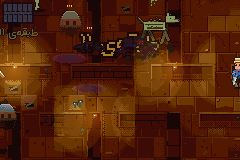
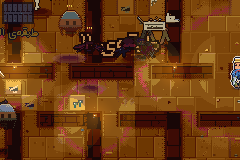
art(S9.2): dungeon readability

diff --git a/game.html b/game.html
@@ -2768,7 +2768,7 @@ return {MOTES, MOTE_INFO, MOTE_ALPHA, drawMotes};
 const {MOTES, MOTE_INFO, MOTE_ALPHA, drawMotes} = __m_art_motes;
 const __m_art_light = (() => {
 let DARK_R = 13, DARK_G = 11, DARK_B = 26; // S4.3: رنگِ تاریکی per تم (گریدینگ)
-const DARK_A = 118;
+const DARK_A = 100; // S9.2: ۱۱۸→۱۰۰ — مهِ تاریکی نیمی از فاصلهی کف↔دیوار را میخورد
 const _lightSt = new Map();
 function lightStamp(rad, strength) {
 const key = rad * 1000 + strength;
@@ -8649,7 +8649,29 @@ dit(x0 + 2 * dir, yy, 0.25, _pick(cand, (edge + 3 * Li) / 4 + (L(x0 + 2 * dir, y
 }
 }
 }
-const FLOOR_PASSES = ['base', 'wallMass', 'floorPattern', 'AO', 'decals', 'seam', 'staticProps'];
+const READ_GAP = 50, READ_FLOOR = 78;
+function passReadable(cache, D) {
+const d = cache.d, w = cache.w, fl = [], wl = [];
+for (let ty = 0; ty < ROWS; ty++) for (let tx = 0; tx < COLS; tx++) {
+const c = D.cell(tx, ty); const arr = c.kind === 'dfloor' ? fl : (c.kind === 'wall' || c.kind === 'pillar') ? wl : null; if (!arr) continue;
+for (let y = 2; y < TILE; y += 3) for (let x = 2; x < TILE; x += 3) { const i = ((ty * TILE + y) * w + tx * TILE + x) * 4; arr.push(lum3([d[i], d[i + 1], d[i + 2]])); }
+}
+if (!fl.length || !wl.length) return;
+const md = (a) => (a.sort((p, q) => p - q), a[a.length >> 1]);
+const Lf = md(fl), Lw = md(wl);
+const kf = Lf < READ_FLOOR ? READ_FLOOR / Math.max(1, Lf) : 1, Lf2 = Lf * kf;
+const kw = Lw > Lf2 - READ_GAP ? Math.max(12, Lf2 - READ_GAP) / Math.max(1, Lw) : 1;
+if (kw === 1 && kf === 1) return;
+for (let ty = 0; ty < ROWS; ty++) for (let tx = 0; tx < COLS; tx++) {
+const c = D.cell(tx, ty); const k = (c.kind === 'wall' || c.kind === 'pillar') ? kw : (c.kind === 'dfloor' || c.kind === 'decor' || c.kind === 'stairs') ? kf : 1;
+if (k === 1) continue;
+for (let y = 0; y < TILE; y++) for (let x = 0; x < TILE; x++) {
+const i = ((ty * TILE + y) * w + tx * TILE + x) * 4;
+d[i] = Math.min(255, d[i] * k); d[i + 1] = Math.min(255, d[i + 1] * k); d[i + 2] = Math.min(255, d[i + 2] * k);
+}
+}
+}
+const FLOOR_PASSES = ['base', 'wallMass', 'floorPattern', 'AO', 'decals', 'readable', 'seam', 'staticProps'];
 function bakeFloor(run) {
 const D = run.dungeon;
 const cache = new Raster(WORLD_W, WORLD_H);
@@ -8658,14 +8680,27 @@ passWallMass(cache, D);        // ۲
 passFloorPattern(cache, D);    // ۳
 passAO(cache, D);              // ۴
 passDecals(cache, D);          // ۵
+passReadable(cache, D);        // ۸ — جدایی کف↔توده (S9.2)
 passSeam(cache, D);            // ۷ — درزگیرِ مرزِ توده↔کف (S8.1)
 passStaticProps(cache, D);     // ۶
 return cache;
 }
-return {FLOOR_PASSES, bakeFloor};
+return {READ_GAP, READ_FLOOR, FLOOR_PASSES, bakeFloor};
 })();
-const {FLOOR_PASSES, bakeFloor} = __m_dungeon_bake;
+const {READ_GAP, READ_FLOOR, FLOOR_PASSES, bakeFloor} = __m_dungeon_bake;
 const __m_run_render = (() => {
+const _rims = new WeakMap(), RIM_C = [242, 239, 228, 210];
+function heroRim(spr) { // حلقهی ۴-همسایه دورِ پیکسلهای مات (α≥200؛ سایهی پختهشده نادیده) — یکبار بهازای هر اسپرایت؛ فهرستِ اندیس (ارزان)
+let m = _rims.get(spr);
+if (m) return m;
+const w = spr.w, h = spr.h, d = spr.d; m = [];
+const op = (x, y) => x >= 0 && y >= 0 && x < w && y < h && d[(y * w + x) * 4 + 3] >= 200;
+for (let y = 0; y < h; y++) for (let x = 0; x < w; x++) if (!op(x, y) && (op(x - 1, y) || op(x + 1, y) || op(x, y - 1) || op(x, y + 1))) m.push(x, y);
+_rims.set(spr, m);
+return m;
+}
+function drawRim(r, m, ox, oy) { for (let i = 0; i < m.length; i += 2) r.px(ox + m[i], oy + m[i + 1], RIM_C); }
+const LIT = [], LIT_R2 = 92 * 92; // S9.2: شعاعِ «موجودِ روشن» ≈ هالهی دیدِ قهرمان (۷۸) + حاشیه
 const _sprCache = new Map(); // کش اسپرایت قهرمان (LRU)
 const ENTS = []; // لیست موجودات قابل رندر — بازمصرف بین فریمها
 const _lights = []; // لیست تخت نورها — بدون تخصیص آبجکت
@@ -8767,9 +8802,17 @@ if (!hp) hp = ENTS[ne] = { y: 0, e: null, hero: false };
 hp.y = h.y; hp.hero = true; hp.e = null; ne++;
 ENTS.length = ne;
 ENTS.sort(BY_Y);
+let nLit = 0;
 for (const en of ENTS) {
+if (!en.hero) { const e = en.e, dx = e.x - h.x, dy = e.y - h.y; if (dx * dx + dy * dy < LIT_R2) { LIT[nLit++] = en; continue; } }
+else { LIT[nLit++] = en; continue; }
+drawEnt(en);
+}
+LIT.length = nLit;
+function drawEnt(en) {
 if (en.hero) {
 const hx = Math.round(h.x) - HOX - cx, hy = Math.round(h.y) - HOY - cy;
+drawRim(r, heroRim(run._heroSprite()), hx, hy); // S9.2: حلقهی روشنِ ۱px بیرونِ outline ⇒ قهرمان روی هر کف جدا
 run._heroSprite().over(r, hx, hy); // سایه داخل اسپرایت پخته شده (ن۳۵: دوبل حذف شد)
 if (h.hurtT > 0 && Math.floor(h.hurtT * 30) % 2 === 0) run._heroSprite(true).over(r, hx, hy);
 else if (h.iframe > 0 && Math.floor(h.iframe * 24) % 2 === 0) r.rect(hx + 14, hy + 14, 36, 36, IFRAME_BOX); // ن۳۵: بوم ۶۴px
@@ -8834,6 +8877,7 @@ else if (EYE_GLOW[e2.kind]) glowAdd(e2.x - cx, e2.y - (MHEAD[e2.kind] ?? 76) - c
 setThemeGrade(GRADE.off ? -1 : D.theme);                     // S4.3: گریدینگِ رنگیِ تم (LUT یکبار در هر تغییرِ تم)
 applyDarkness(r, run._dark, L, C, cx, cy); // S4.2: دوربین برای دیترِ جهانی
 glowDraw(r);                               // S4.6: هالهها روی تاریکی (افزودنی + clamp)
+for (const en of LIT) drawEnt(en);         // S9.2: موجوداتِ روشن روی تاریکی
 drawMotes(r, 'dungeon', D.theme, cx, cy, run.time, r.w, r.h); // S4.8: ذراتِ آرامِ تم (≤۶، ۱px)
 run.fx.render(r, cx, cy);
 for (const e of D.enemies) {

diff --git a/js/dungeon_bake.js b/js/dungeon_bake.js
@@ -173,7 +173,35 @@ function passSeam(cache, D) {
   }
 }
 
-export const FLOOR_PASSES = ['base', 'wallMass', 'floorPattern', 'AO', 'decals', 'seam', 'staticProps'];
+// ---------- ۸ — جدایی کف↔توده (S9.2) ----------
+// پیش از این پاس میانهی روشنیِ کف و تودهی دیوار در ۶ تم فقط ۰–۷ واحد L* فاصله داشت ⇒ «همهچیز یکرنگ و تار».
+// توده تیرهتر میشود (سقفِ دیوار در نمای بالا = سایه) تا فاصلهی میانهها به READ_GAP برسد؛ اگر کف خودش
+// آنقدر تیره است که جا نیست، کف روشنتر میشود. ضربِ کانالی ⇒ بافت/نسبتها حفظ؛ قفلِ پالتِ صحنه بعداً اسنپ میکند.
+export const READ_GAP = 50, READ_FLOOR = 78;
+function passReadable(cache, D) {
+  const d = cache.d, w = cache.w, fl = [], wl = [];
+  for (let ty = 0; ty < ROWS; ty++) for (let tx = 0; tx < COLS; tx++) {
+    const c = D.cell(tx, ty); const arr = c.kind === 'dfloor' ? fl : (c.kind === 'wall' || c.kind === 'pillar') ? wl : null; if (!arr) continue;
+    for (let y = 2; y < TILE; y += 3) for (let x = 2; x < TILE; x += 3) { const i = ((ty * TILE + y) * w + tx * TILE + x) * 4; arr.push(lum3([d[i], d[i + 1], d[i + 2]])); }
+  }
+  if (!fl.length || !wl.length) return;
+  const md = (a) => (a.sort((p, q) => p - q), a[a.length >> 1]);
+  const Lf = md(fl), Lw = md(wl);
+  // کف حداقل READ_FLOOR (تاریکی بعداً ~نصفِ فاصله را میخورد) و توده دستکم READ_GAP تیرهتر، ولی نه زیرِ ۱۲ (سیاهیِ بیجزئیات)
+  const kf = Lf < READ_FLOOR ? READ_FLOOR / Math.max(1, Lf) : 1, Lf2 = Lf * kf;
+  const kw = Lw > Lf2 - READ_GAP ? Math.max(12, Lf2 - READ_GAP) / Math.max(1, Lw) : 1;
+  if (kw === 1 && kf === 1) return;
+  for (let ty = 0; ty < ROWS; ty++) for (let tx = 0; tx < COLS; tx++) {
+    const c = D.cell(tx, ty); const k = (c.kind === 'wall' || c.kind === 'pillar') ? kw : (c.kind === 'dfloor' || c.kind === 'decor' || c.kind === 'stairs') ? kf : 1;
+    if (k === 1) continue;
+    for (let y = 0; y < TILE; y++) for (let x = 0; x < TILE; x++) {
+      const i = ((ty * TILE + y) * w + tx * TILE + x) * 4;
+      d[i] = Math.min(255, d[i] * k); d[i + 1] = Math.min(255, d[i + 1] * k); d[i + 2] = Math.min(255, d[i + 2] * k);
+    }
+  }
+}
+
+export const FLOOR_PASSES = ['base', 'wallMass', 'floorPattern', 'AO', 'decals', 'readable', 'seam', 'staticProps'];
 
 export function bakeFloor(run) {
   const D = run.dungeon;
@@ -183,6 +211,7 @@ export function bakeFloor(run) {
   passFloorPattern(cache, D);    // ۳
   passAO(cache, D);              // ۴
   passDecals(cache, D);          // ۵
+  passReadable(cache, D);        // ۸ — جدایی کف↔توده (S9.2)
   passSeam(cache, D);            // ۷ — درزگیرِ مرزِ توده↔کف (S8.1)
   passStaticProps(cache, D);     // ۶
   return cache;

diff --git a/MEMORY.md b/MEMORY.md
@@ -98,8 +98,9 @@ farmdungeon/   (کل ورکاسپیس ۲٫۵MB — بیرون فقط uploads/
 - **ن۵۲: S0.3 ✅ art_audit پایدار** — `tools/art_audit.mjs` (M1–M10 عددی + شیت + JSON؛ قطعی=random استاب؛ ۰٫۳ث) + `shots/audit_baseline.json` + `shots/art_audit.png` + ۴ صحنهی مرجع `ref_*.png`؛ **اسکرینشاتهای قدیمی (۶ فایل) بهخواست کاربر حذف شدند**؛ CI: `.github/workflows/ci.yml` (هر push: run_all + art_audit + آپلود آرتیفکت)؛ پایهی سنجهمحور **۲/۱۱ = ۱٫۸/۱۰** — M1 ΔL=۹٫۶ (bat بدترین) · M2=۲۲ · M3 قهرمان ۸۳ رنگ/موب ۵–۹ · M4=۱ باند · M5=۹۷٫۴٪ · M6=۰٫۵۹/۰٫۵۷ · M7=۴۶٫۲٪/۰٫۷٪ · M8=۰/۰ · M9 idle-min=۰٪ (golem یخزده)، حمله ۱۹٫۸/۱۹٫۱٪ · M10=۷–۱۳px×۴؛ همخوانی با ن۴۸: قهرمان ۸۳↔۸۲، موب ۵–۹↔۵–۹، محصول ۷–۱۳↔۷–۱۳، حمله ۱۹٫۸/۱۹٫۱↔۱۵/۱۹، bat بدترین↔bat · نشست بعدی: S0.4
 - **ن۵۱: S0.1 ✅ + S0.2 ✅** — مخزن با توکن کلون شد، `farmdungeon-roadmap.zip` آنزیپ و ساختار پروژه در ریشهی ریپو (`farmdungeon/`) قرار گرفت؛ zip حذف؛ `secret_guard: clean`؛ پوش اول `3f61d4c` (local==remote)؛ تگ `art-baseline` لوکال+ریموت · **S0.2**: `tools/setup_tests.sh` + `tools/boot_check.mjs` (۱۰ سناریو jsdom) + `tools/run_all.sh` → `ALL GREEN` در ۲۲ث (boot ۱۰/۱۰ در ۱۹٬۲ث · render5 ۱۵/۱۵ · render6 ۲۷/۲۷) و **بیلد بایتبرابر با game.html موجود (Parity)** · نشست بعدی: S1.5a (موبهای کلاسیک)
 - **ن۵۰: رودمپ آرت v2 تدوین شد** (۵۹ نشست/۹ فاز: P0 زیرساخت · P1 رنگ · P2 تایل مزرعه · P3 تایل دانجن · P4 نور · P5 جزئیات مزرعه · P6 موجودات · P7 UI · P8 پولیش) — کد بازی دستنخورده، فقط `.gitignore` + `tools/push.sh` + `tools/secret_guard.sh` + ROADMAP/roadmap اضافه شد · نشست بعدی: S0.3 · هدف امتیاز آرت ۵٫۵ → ≥ ۸٫۵ (Scoreboard در ROADMAP.md)
-- قابل بازی: game.html روی :8080 · نوبت جاری: **ن۱۱۳ — R4 بازخورد «تار/نازیبا» ⇒ فازِ تازهی P9 (`roadmap/P9.md`) · S9.1 ✅ فونتِ فارسیِ متصل ⇒ S9.2**
+- قابل بازی: game.html روی :8080 · نوبت جاری: **ن۱۱۳ — R4 بازخورد «تار/نازیبا» ⇒ فازِ تازهی P9 (`roadmap/P9.md`) · S9.1 ✅ فونت · S9.2 ✅ خوانایی دانجن ⇒ S9.3**
 - **ن۱۰۳: S6.5 ✅ جزئیات ۷ موب جدید (۱ ماژول تازه + ۲ ویرایش — داخل سهمیه)** — **بخشبندی:** `monster_bodies2.js` از سقف گذشته بود (۲۸۶) ⇒ ماژول تازه **`js/art/monster_bodies4.js⟨157⟩`** گرفت imp/bandit/hare را و فایل اصلی با ۴ بدنه (mummy/archer/ram/yeti) به **۲۰۳** خط رسید؛ ادغام با `...MBODY4`. **جزئیات:** mummy باندِ مورب + دنباله + **بازوانِ درازِ امضایی** · archer کمانِ کمانی + **تیردان با ۳ تیر** · ram **دورِ دومِ شاخِ حلزونی** + تودههای پشمِ بالا/پایین · yeti **خزِ یخیِ دندانهدار** + ابرو/دندان · imp بالِ کوتاه + **شعلهی دست** · bandit **نقاب** + نوکِ کلاه + دنبالهی شنل · hare رانِ عقبی + پنجههای بزرگ (کوتاهوپهن). **پذیرش ✓:** M1 ۲۷٫۱۸ · M3 موبها ۱۱..۲۰ · M4 باند ۵ · M9 idle ۴۷٫۶٪ / کماندار ۸۳٫۸٪ · audit ۱۰/۱۱ (۹٫۱) · **qa_s65 (۱۳) ۱۳/۱۳** (از جمله ۷ کلاسیک ۲۸/۲۸ بیتبهبایت یکسان با HEAD) · boot ۱۱/۱۱ · render5/6 · elite47 ۴/۴. **سیلوئت (Jaccard):** معیارِ نقشه (≤۰٫۶ برای هر جفتِ هماندازه) **از قبل نقض بود** (۱۹ جفت از ۳۷ بالای ۰٫۶؛ بدترین ۰٫۸۰۸) ⇒ سنجه را «عدم بدترشدن» بستیم و بهبود گرفتیم: **بالای ۰٫۶: ۱۹→۱۶** · بدترین ۰٫۸۰۸→۰٫۷۸۸ · میانگین ۰٫۵۵۱→۰٫۵۳۲ · هیچ جفتی بیش از ۰٫۰۵ بدتر نشد. رسیدن به ≤۰٫۶ نیاز به نشستِ بازطراحیِ اندازهها دارد (پیشنهاد: S6.8). شاهد: `shots/s65_idle.png` و `shots/s65_attack.png`. نشست بعدی: **S6.6**.
+- **ن۱۱۴: S9.2 ✅ خوانایی دانجن (۰ ماژول + ۳ ویرایش)** — سنجهی تازه `/tmp/s92/read.mjs` (۶ تم؛ قهرمان روی کفِ نزدیکِ مرکز با ۳–۱۲ دیوار در ۵×۵، ۶ موب در فاصلهی ۳–۶ تایل، Math.random بذری، ماسکِ موجود = تفاضلِ رندرِ با/بی موجود): قبل کف↔دیوار L* **۰–۸**، قهرمان **۲۵٪**، موبها **۳۳٪**. **علت:** پخت فاصله داشت ولی مهِ تاریکی (α≤۱۱۸) نیمی از آن را میخورد و موجودات زیرِ تاریکی کشیده میشدند. **کار:** `dungeon_bake.js` پاسِ **`passReadable`** پیش از seam (`READ_GAP=50`، `READ_FLOOR=78` بر حسبِ lum3؛ wall+pillar تیره، کف/دکور/پله روشن) · `light.js` `DARK_A` ۱۱۸→**۱۰۰** · `run_render.js`: موجوداتِ داخلِ **۹۲px** قهرمان پس از `glowDraw` کشیده میشوند (`LIT`، `drawEnt`؛ دورترها مثل قبل) + **حلقهی روشنِ قهرمان** (`heroRim`: فهرستِ اندیسِ پیکسلهای ۴-همسایهی α≥200 در WeakMap، `RIM_C` [242,239,228,210]؛ نسخهی رسترِ ۶۴×۶۴ کند بود). **بعد:** کف↔دیوار **۱۸٫۶**، قهرمان **۵۷٪**، موبها **۴۶٪** ⇒ PASS · audit ۹٫۱ (M5 دانجن ۹۹٫۶، M6 ۰٫۹۱) · پویش: M8 ۲→۴، M6 خارج ۲→۳ (تشخیصی) · run_all/qa ۵۲/s82 ۸/۸ سبز · A/B دانجن ۱٫۱۳–۱٫۱۸× (مرزی) · بیلد ۵۳۶٫۲KiB. ریسک: سرستونِ ستونها حالا زیرِ موجوداتِ روشن میافتد (ترتیبِ y برای موجوداتِ داخلِ هاله). درس: تاریکی فاصلهها را نصف میکند ⇒ کنتراست را پس از نور بسنج.
 - **ن۱۱۳: R4 ⇒ P9 + S9.1 ✅ فونتِ فارسیِ متصل (۱ ماژولِ تازه + ۲ ویرایش)** — بازخوردِ کاربر: «همهچیز تار است» + امتیازِ سختگیرانهی ۴٫۲/۱۰ ⇒ فازِ **P9 زیبایی و وضوح** (۷ نشست + R5؛ هر نشست یک سنجهی چشمیِ تازه که قبل FAIL/بعد PASS). **کشف:** فونتِ S7.3 حروف را جدا و تکشکل میکشید (بدونِ آغازی/میانی/پایانی، ب بینقطه) ⇒ «طبقه» ≈ «uopub»؛ سنجههای قبلی (گلیف موجود/چشمه) این را نمیدیدند. **کار:** `tools/author_font_vaz.py` (تازه): Vazirmatn Medium **11px** (OFL، فقط در /tmp/vaz.ttf؛ بازی فایلِ فونت ندارد) را با **HarfBuzz/raqm از راهِ ZWJ** برای هر فرمِ بافتی رستر میکند ⇒ ماژولِ تازهی **`js/art/font_fa.js⟨69⟩`** (۳۰۱ گلیف، ۴۵ حرف×۴ فرم + لامالف، بیتمپ base64 ۴٫۳KB، H=15، base=10) + شکلدهیِ عربی (RJ/ZWNJ/لامالف/ALIAS/آینهی پرانتز) + bidi (ردیفهای لاتین/عدد با فاصله و جداکننده) + نمادهای دستیِ → ✦. بخشِ کدِ font_fa پس از نشانهی «رمزگشایی» با بازتولید حفظ میشود. **`js/art/font2.js` ۲۸۹→۱۰۵** (همان API؛ ماسک/حلقهی کششده با سقف ۲۵۶؛ GLYPHS حذف ⇒ `tools/author_font41.py` منسوخ است و نباید اجرا شود) · `build_single` (BASE: art/font_fa پیش از font2). **سنجه:** شناساییِ ۱-از-N روی ۲۰۱ کلمه در برابرِ مرجعِ HarfBuzz **۲٫۵٪→۹۷٫۰٪**، F1±1px **۰٫۶۴۸→۰٫۹۹۲** · qa_all ۵۲/۵۲ · فازر ✓ · run_all سبز · audit ۹٫۱ · A/B دانجن ۱٫۱۴× · بیلد ۵۳۳٫۳KiB. درس: IoUِ پیکسلیِ خام با HarfBuzz سقفِ ~۰٫۶ دارد (جایگذاریِ زیرپیکسلی) ⇒ خوانایی را با «شناسایی» بسنج.
 - **ن۱۱۲: S8.4 ✅ ریلیز — رودمپ تمام (۰ ماژول + ویرایش: build_single.mjs، README.md تازه، game.html)** — `build_single` تابعِ `slim`: حذفِ کامنتِ تمامخط و تورفتگی (template literalِ چندخطی دستنخورده) + گزارشِ اندازه به **بایت** (عددِ قبلیِ «۶۱۰٫۴KB» طولِ رشته بود نه بایت!) ⇒ game.html **۶۹۲→۵۲۹٫۸KiB** ✓ (هدف ≤۶۰۰) · برابریِ توکنی با باندلِ قبلی (بدونِ فاصله) ✓ · run_all سبز · shots: sheet all بازسازی، ۱۲ شاهدِ قدیمیِ s6x/s7x حذف (در تاریخچهی git هست) · README (اجرا: `node serve.mjs`) · **Scoreboard نهایی ۱۱/۱۱** (audit ۱۰ + M11 با A/B) · تگ **art-v2**. بعدی: 🛑 R4.
 - **ن۱۱۱: S8.3 ✅ رگرسیونِ کامل (۰ ماژول + ۰ ویرایشِ کد؛ فقط تست در /tmp/s83)** — `qa_all.mjs` بازنویسی **۵۲/۵۲** (font+i18n ۹: ۶۸+ کلید، همهی نویسههای fa/en گلیف دارند ⇒ هیچ «؟»ِ جایگزین · save ۱۰: سیوِ v6 ساختهشده با `defaultSave` تگِ art-baseline کامل لود شد، مهاجرت v3→v6، JSONِ خراب، بافِ نامعتبر، رفتوبرگشت، ریست · bp/tile/mobs/seed ۹ · run ۱۰ · render ۱۴: ۶ تم، قطعیت، مزرعه ۶۰۰ فریم، ۳ ویوپورت، Q0/Q1) · **فازر ۴۰ سید × ۲۴ طبقه** (۹۶۰ دور، ۸۶٬۴۰۰ فریم ورودیِ تصادفی): ۰ کرش · ۰ NaN · ۰ خروج از نقشه · **دسترسپذیری ۲۰۰ سید × ۳۰ طبقه** (۶۰۰۰ نقشه): پله ۰ · صندوق ۰/۱۷۳۲۲ · محراب ۰/۳۱۴۳ ناموفق · run_all سبز (boot ۱۱ · render5 ۱۵ · render6 ۲۷) · elite47 ۴/۴ · امتیاز ۹٫۱. **یافته ⇒ رفع (fix(S8.3)، با تأییدِ کاربر):** ۱۴۲ هیولای غیرباس روی جزیرهی کفِ محصور اسپاون میشدند ⇒ `Dungeon._reachFix` (`js/dungeon.js`) پس از تولید، هیولای غیرقابلدسترس را بدونِ مصرفِ RNG به نزدیکترین کفِ قابلدسترس میبرد ⇒ ۱۴۲→۰؛ چیدمان/سید/تعداد یکسان. `Math.random` فقط در فاز/idleِ انیمیشنِ Monster است؛ چیدمان قطعی. درس: تستِ قطعیتِ رندر باید Math.random را بذر بدهد.

diff --git a/roadmap/P9.md b/roadmap/P9.md
@@ -12,10 +12,14 @@
 **نتیجه:** شناسایی **۲٫۵٪ → ۹۷٫۰٪** · F1 **۰٫۶۴۸ → ۰٫۹۹۲** · شاهد `shots/s91_font.png`.
 **commit:** `art(S9.1): joined persian bitmap font`
 
-## S9.2 — خوانایی دانجن (جدایی کف/دیوار/موجود) ☐
-- [ ] کاهشِ شستگیِ نورِ رنگی/تاریکی؛ فاصلهی L کف↔دیوار ≥ ۱۸ در هر ۶ تم.
-- [ ] رینگِ روشنِ ۱px برای قهرمان و موبها روی کفِ تیره.
-**سنجه:** کمینهی کنتراستِ هر موجود در برابرِ کفِ هر ۶ تم (پس از نور) ≥ ۲۰ ΔL.
+## S9.2 — خوانایی دانجن (جدایی کف/دیوار/موجود) ✅
+- [x] پاسِ تازهی `passReadable` در `dungeon_bake.js`: کف حداقل L=۷۸ و توده ≥۵۰ واحد تیرهتر (ضربِ کانالی، بافت حفظ).
+- [x] مهِ تاریکی `DARK_A` ۱۱۸→۱۰۰ (`light.js`).
+- [x] موجوداتِ داخلِ هالهی قهرمان (۹۲px) **پس از تاریکی** با رنگِ کامل؛ حلقهی روشنِ ۱px دورِ قهرمان (`run_render.js`).
+**سنجه (/tmp/s92/read.mjs، ۶ تم، قهرمان وسطِ نقشه + ۶ موب):** فاصلهی L* کف↔دیوار (پس از نور) ≥ ۱۸ در هر تم · سهمِ بدنهی قهرمان که ≥۱۵ L* با کف فاصله دارد ≥ ۵۰٪ · میانهی همین سهم برای موبها ≥ ۴۰٪.
+**نتیجه:** کف↔دیوار کمینه **۰–۸ → ۱۸٫۶** · قهرمان کمینه **۲۵٪ → ۵۷٪** · موبها میانه **۳۳٪ → ۴۶٪** ⇒ PASS · شاهد `shots/s92_readability.png` (چپ قبل / راست بعد؛ تم ۰، ۲، ۵).
+**باقی:** موبهای تیره (عنکبوت/خفاش ۰–۲۵٪) ⇒ S9.4 · پویشِ تشخیصیِ art_audit: M8 جمع ۲→۴ و M6 خارج از باند ۲→۳ صحنه (امتیازِ مرجع ۹٫۱ دستنخورده) · A/B دانجن ۱٫۱۳–۱٫۱۸× (میانه ~۱٫۱۴، مرزی).
+**commit:** `art(S9.2): dungeon readability`
 
 ## S9.3 — بازطراحیِ سیلوئتِ گرگ، گولم، باس، روح، ایمپ ☐
 **سنجه:** خوانایی سیلوئت (پرشدگیِ bbox بین ۰٫۳۵ و ۰٫۷۵ + حداقل ۲ زائدهی متمایز) برای هر ۵.

diff --git a/ROADMAP.md b/ROADMAP.md
@@ -142,7 +142,7 @@ MEMORY.md را بخوان. در ROADMAP.md اولین نشست ☐ را پیدا
 
 ### P9 · زیبایی و وضوح → `roadmap/P9.md`
 - [x] S9.1 فونتِ فارسیِ متصل و خوانا
-- [ ] S9.2 خوانایی دانجن (کف/دیوار/موجود)
+- [x] S9.2 خوانایی دانجن (کف/دیوار/موجود)
 - [ ] S9.3 بازطراحیِ سیلوئتِ گرگ/گولم/باس/روح/ایمپ
 - [ ] S9.4 دیدهشدنِ موبهای تیره + فریمِ مرگ
 - [ ] S9.5 مزرعهی پر و مقیاسِ درست
